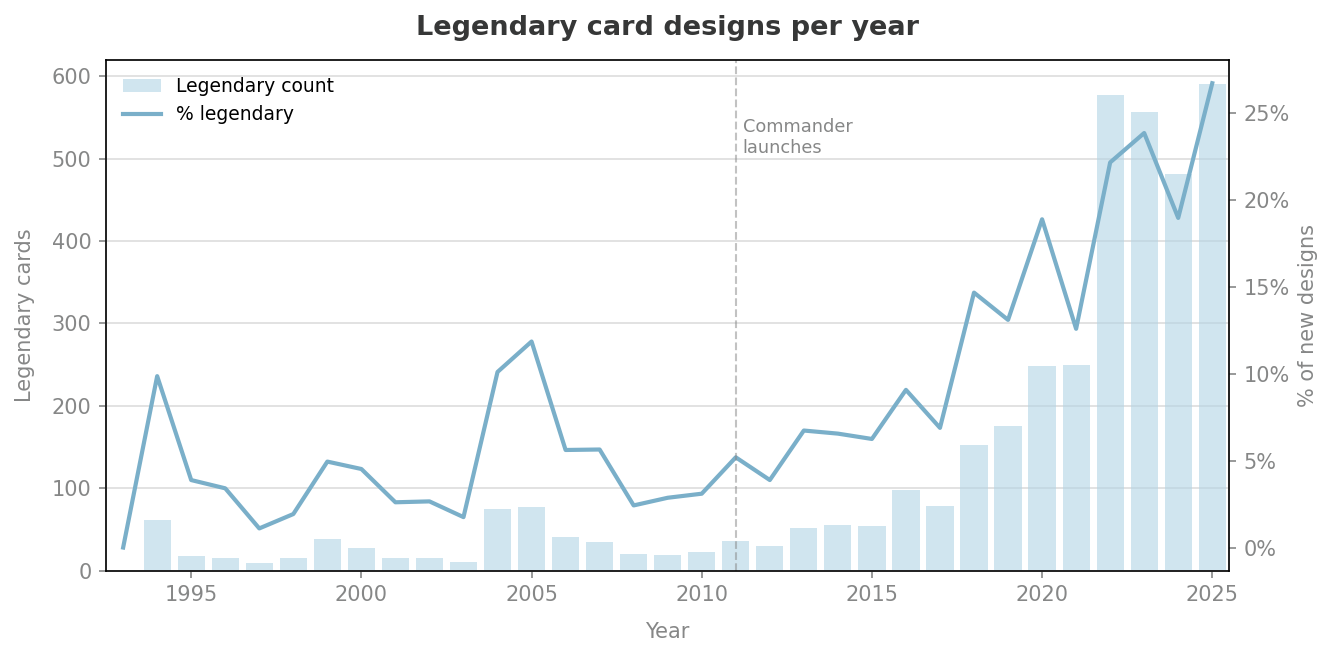
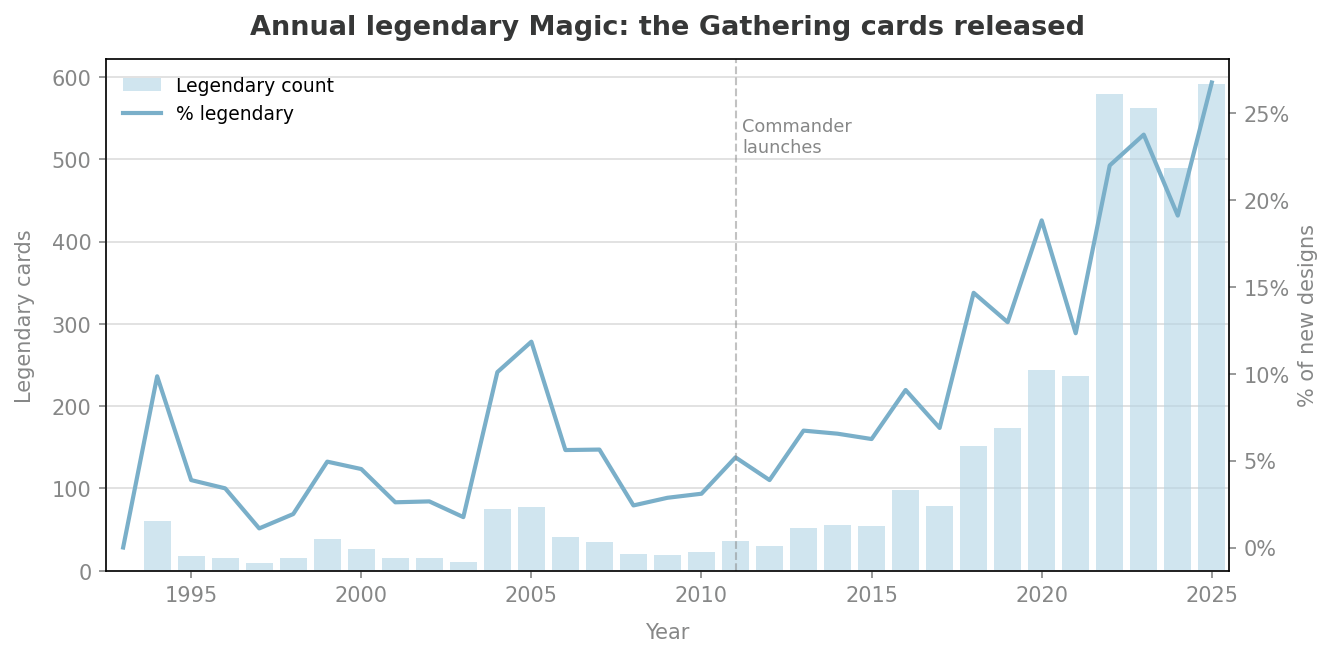
Fix build: absolute image paths in legacy post, update live legendary chart
- mtg-legacy-tournament.md: fix four relative image paths (../../images/...)
  to absolute (/images/...) — Astro cannot resolve relative paths from the
  content directory, causing ImageNotFound build failure
- Regenerate public/images/live/mtg-distributions/legendary_over_time.png
  with updated chart title ("Annual legendary Magic: the Gathering cards released")

diff --git a/src/content/blog/mtg-legacy-tournament.md b/src/content/blog/mtg-legacy-tournament.md
@@ -43,7 +43,7 @@ Spoiler: they mostly aren't. The top 5 cards by flat weighting (Force of Will, B
 
 For each scored card, we computed percentile rank on both dimensions — power score (from Post 2) and flat mainboard prevalence (from tournament data) — and plotted one against the other.
 
-![Scatter: power score percentile vs. tournament prevalence percentile](../../images/mtg-legacy-tournament/scatter_power_vs_prevalence.png)
+![Scatter: power score percentile vs. tournament prevalence percentile](/images/mtg-legacy-tournament/scatter_power_vs_prevalence.png)
 
 The Pearson correlation between the two signals is **0.137**.
 
@@ -59,7 +59,7 @@ The more useful question is not "why is the correlation low" but "what is the sh
 
 The divergence leaderboard shows the cards where community prevalence most exceeds the text-derived score.
 
-![Divergence leaderboard](../../images/mtg-legacy-tournament/divergence_leaderboard.png)
+![Divergence leaderboard](/images/mtg-legacy-tournament/divergence_leaderboard.png)
 
 Force of Will leads by a wide margin. But look at the cards around it: Simian Spirit Guide, Force of Negation, Elvish Spirit Guide, Daze, Once Upon a Time, Unmask, Snuff Out. Every single one of these has an alternative or free casting option. You pitch a card, discard your hand, or spend zero mana to cast them.
 
@@ -97,7 +97,7 @@ The through-line across most of these: they are **rule modification effects**, e
 
 The other direction is quieter but worth naming.
 
-![Weighting sensitivity](../../images/mtg-legacy-tournament/weighting_sensitivity.png)
+![Weighting sensitivity](/images/mtg-legacy-tournament/weighting_sensitivity.png)
 
 The cards where the metric scores far above Legacy prevalence are almost uniformly Modern powerhouses: Hexdrinker, Scavenging Ooze, Malevolent Hermit. High keyword counts, efficient mana costs, strong effects by most formats' standards.
 
@@ -119,7 +119,7 @@ What we can say is that the divergence is not random. The positive gap is domina
 
 The chart that makes this clearest is the mainboard-vs-sideboard view:
 
-![Mainboard vs. sideboard prevalence](../../images/mtg-legacy-tournament/mb_vs_sb.png)
+![Mainboard vs. sideboard prevalence](/images/mtg-legacy-tournament/mb_vs_sb.png)
 
 Cards split cleanly: most are either predominantly mainboard or predominantly sideboard. The sideboard-dominant cards (graveyard hate, artifact removal, narrow answers) cluster in the bottom right. The mainboard-dominant cards (cantrips, counterspells, threats) cluster along the top. The two-signal divergence mostly lives in the mainboard cluster, which is where format-specific power ceiling effects are strongest.
 
